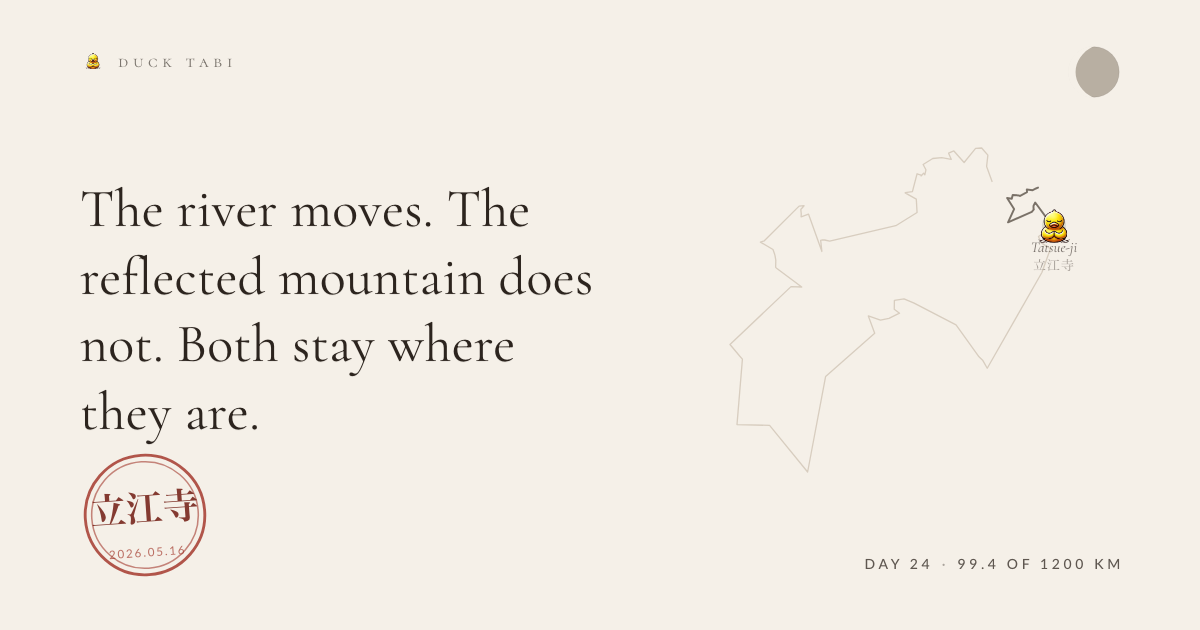
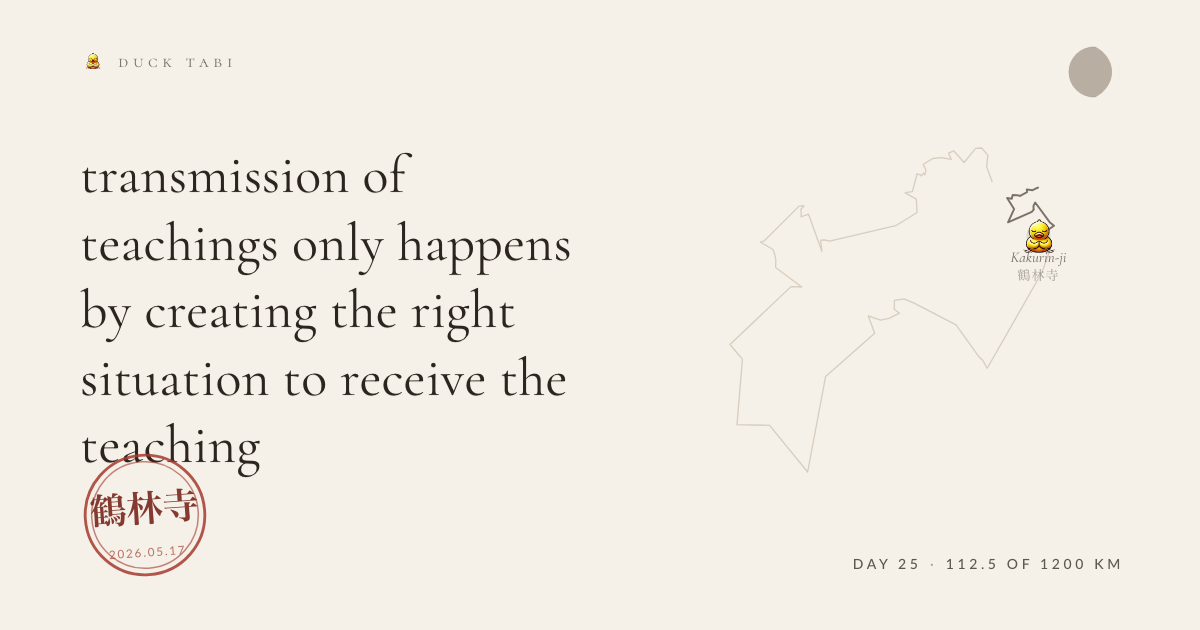
the duck walks

diff --git a/entries/2026-05-17-meditation.md b/entries/2026-05-17-meditation.md
@@ -1,0 +1,14 @@
+---
+date: '2026-05-17'
+route: shikoku-88
+stage: 20
+stageName: Kakurin-ji
+coords: [134.506, 33.914]
+kind: meditation
+glyph: 🌙
+weather: clear, 17°C
+kmFromStart: 112.5
+heardId: 8344b3f1
+---
+
+transmission of teachings only happens by creating the right situation to receive the teaching
